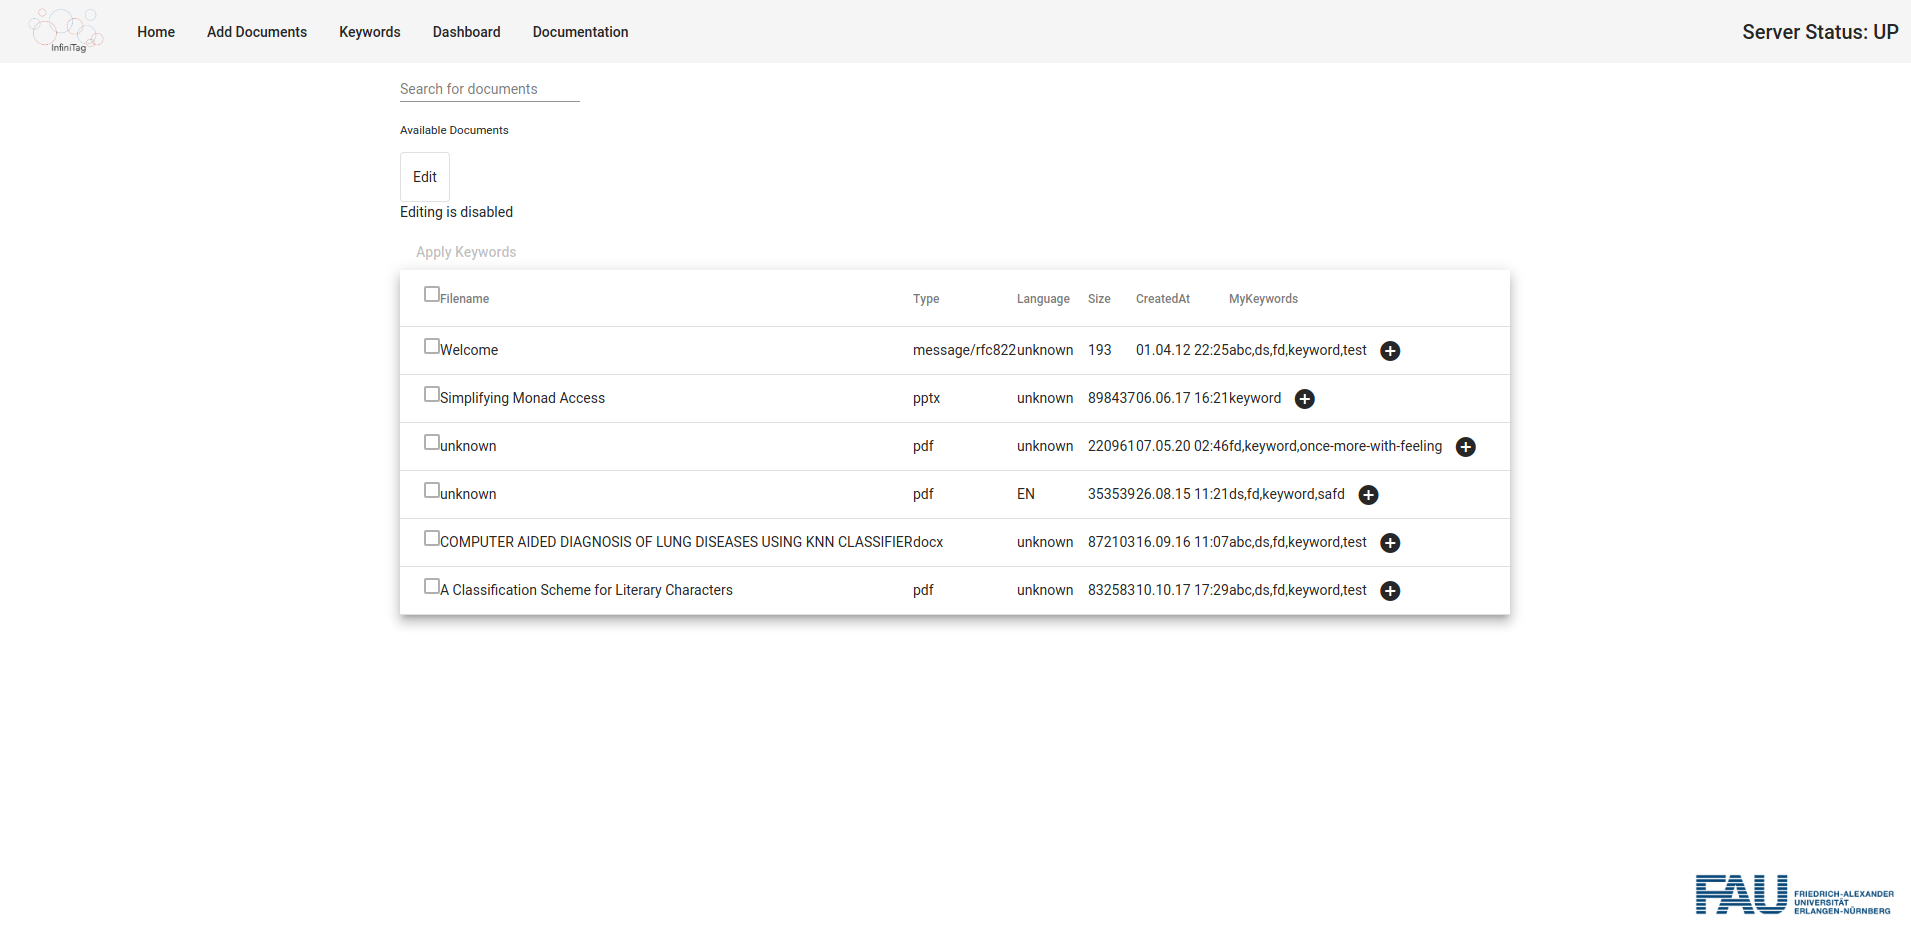
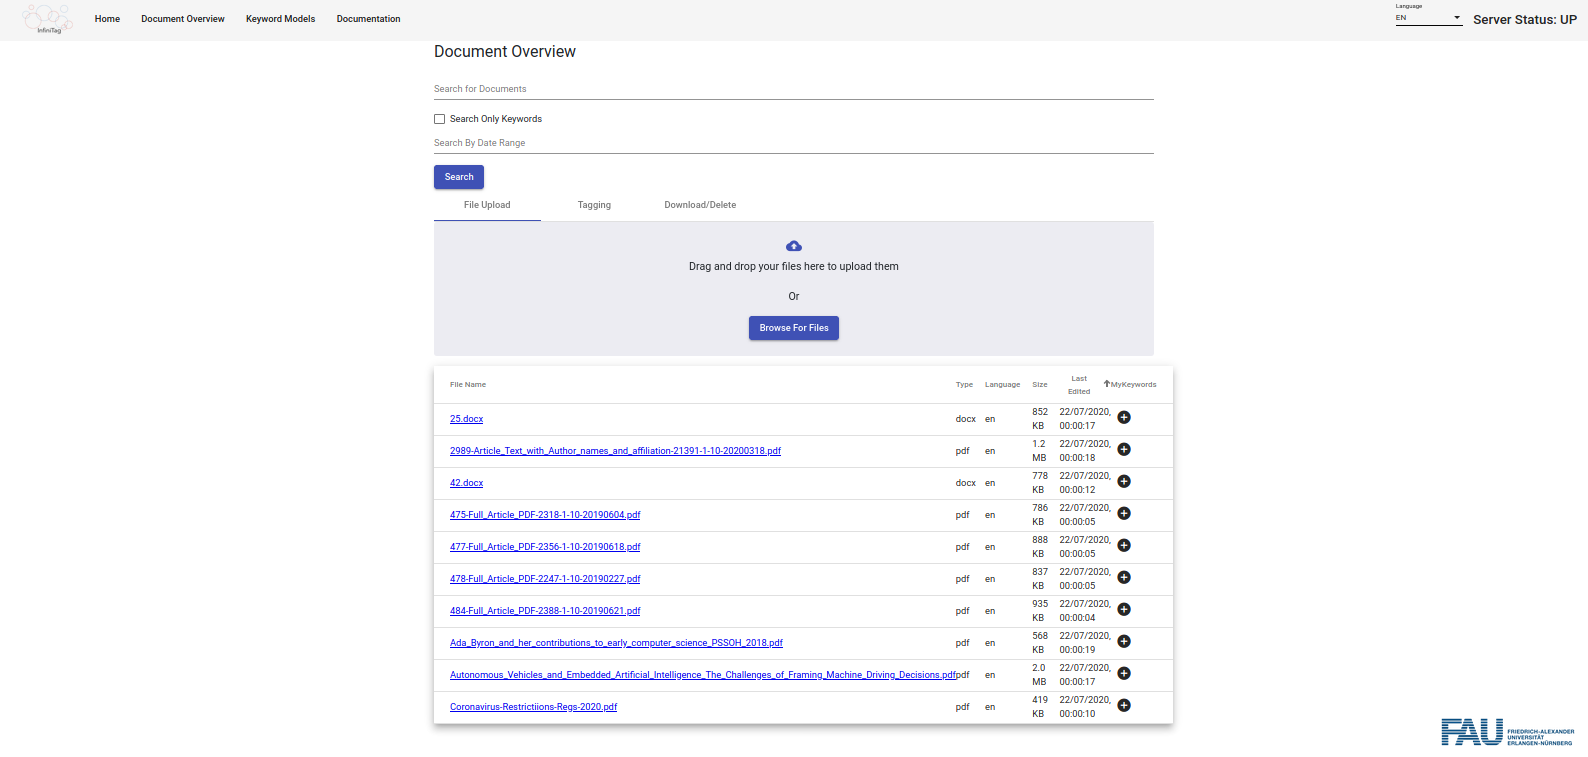
started updating user doc pdf

diff --git a/docs/user/user_manual.tex b/docs/user/user_manual.tex
@@ -13,8 +13,8 @@
 
 
 \title{User Manual for the InifiniTag Document Tagging Service}
-\author{Barnhill, Hanif, Vinokour, Wich, Sakib}
-\date{June 2020}
+\author{Barnhill, Hanif, Vinokour, Wich, Sakib, Daudrich, Sippl}
+\date{Juli 2020}
 
 \begin{document}
 
@@ -43,38 +43,63 @@ For help getting the Solr database up and running. See the various files in our 
 
 
 
-\section{Document Overview / Start Page}
+\section{Start Page}
 \label{docoverview}
-Once the front end is up and running, navigate to the start page to see a table with a list of documents as seen in Figure \ref{fig:start_page}.
+
+Once the front end is up and running, navigate to the start page to see a dashboard as seen in Figure \ref{fig:start_page} giving you a some statistics about the state of your documents and keyword models.
 
 Notice in the top right corner is a status badge indicating the connection to the back end. If this is 'DOWN', then you will not be able to send or receive information from the server and will not be able to continue.
+Right next to it is a language option, which allows you to use our software in both english and german, whatever you prefer.
 
-The search bar on this page enables you to filter documents by any criteria. Any word entered into the search box will be used to check for matching words in the name, tags, language, etc.
-
-The + icon in the keywords column allows you to add any existing tag to a document.
-
-Clicking on the edit button will enable the checkboxes to the right of the document name. By doing so you can apply one keyword to multiple documents.
+At the bottom of the page you can see a wordcloud of all currently applied keywords, providing you with a quick and easy way to see what keywords are used often and how many there are total.
 
 \begin{figure}
     \centering
-    \includegraphics[scale=0.25]{img/doc1.png}
+    \includegraphics[scale=0.25]{img/dashboard.png}
     \caption{The Start page}
     \label{fig:start_page}
 \end{figure}
 
-\section{Adding Documents}
-Navigating to \verb|\documents| in the browser or clicking on the \verb|Add Documents| link in the menu will take the user to a form where they can select one or more documents to be uploaded. This can be seen in Figure \ref{fig:doc_upload}.
 
-Upon selecting one or more documents all of the documents will be sent to the server for further processing. At the moment the documents will be stored in the database and the meta-information such as name, language, type, etc. will be extracted and stored along with the document content.
+\section{Document Overview}
+
+By clicking on the Document Overview tab in the toolbar you can navigate to the page showing you all documents in the database as seen in Figure \ref{fig:doc_overview}.
+The files can be sorted by their attributes by clicking on the respective label. At the top of the page is a search bar allowing you to filter files by a search term.
+As the default every field in the database gets searched for the entered term, which also includes the documents name and content.
+If you only want to search for specific tags you can press the Search keywords only checkbox.
+In addition to that you can filter documents by their last edited timestamp by clicking on the Search By Date Range field.
+
+You can upload more files by dragging them into the designated area marked blue or open a file dialog by clicking on it.
+A dialog will open ahowing you the upload status as well as giving you an option to cancel the upload.
+
+Keywords can be added to documents by clicking on the + sign in the MyKeywords column and can be deleted by pressing the x next to the keyword.
+If you wish to add/delete multiple keywords to/from multiple documents at once, you can do so by selecting the Tagging tab.
+A checkbox will become visible next to each document and you can enter multiple keywords into field titled Search Keywords....
+Then the selected keywords can be applied or deleted by pressing the respective button.
+
+In the Tagging tab you can use our automated taggin solution, too. We provide two ways to automatically tag your documents. They can be choosen by selecting them from the drop down menu on the right.
+The first one tags documents by utalising something we call keyword models. Keyword models will explained in detail later in the Section \ref{}.
+The second method is completly automated. You only need to select the documents or click the Apply to all documents button and typing in the amount of clusters and keywords you want.
+The result of all tagging methods can be seen in Figure \ref{fig:applied_kw}. Notice how the keywords are color coded indicating by which method they were created.
+
+If you want to download a document you can do that by clicking on the documents title or you can download multiple files at once by navigating to the Download/Delete tab.
+If you download a couple of files at once, they are combined into a zip file for your convenience. In this tab you can also delete files from the database if you don't need them anymore.
 
 \begin{figure}
     \centering
-    \includegraphics[scale=0.4]{img/doc2.png}
-    \caption{Uploading Documents}
-    \label{fig:doc_upload}
+    \includegraphics[scale=0.25]{img/doc1.png}
+    \caption{The Document Overview}
+    \label{fig:doc_overview}
 \end{figure}
 
-\section{Maintaining Keywords}
+\begin{figure}
+    \centering
+    \includegraphics[scale=0.25]{img/applied_kw.png}
+    \caption{Keywords applied to a document}
+    \label{fig:applied_kw}
+\end{figure}
+
+\section{Keyword Models}
 Navigating to \verb|keywords| or clicking on the \verb|Keywords| link will take the user to a page where they can add dimensions and keywords to a keyword model as seen in Figure \ref{fig:key1}. These keywords are then available to be assigned to the documents on the start / document overview page.
 
 Here one can add dimensions as well as keywords, which will enable the construction of hierarchical keyword models.
